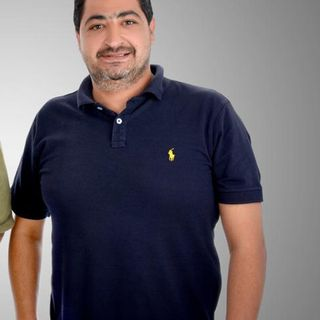
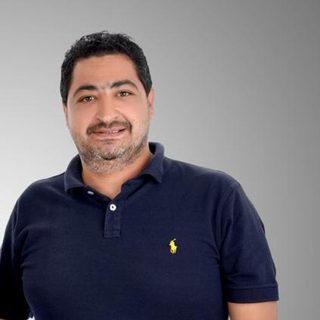
Bigger rounded-square team photos, fix mobile menu, re-crop headshots
- Team photos: large rounded-square (bleeding to card edges) instead of
  small circular avatars
- Re-crop Gehad Fawzy and Mick Jewell from the shared group photo with
  correct centering (previous crop had a sliver of the other person's
  sleeve bleeding in, and Mick was off-center)
- Mobile nav: full-screen opaque overlay (was a partial-height panel
  whose top edge could gap against the semi-transparent blurred header,
  letting page content show through); toggle button now sits above the
  overlay and morphs to a close (X) icon; body scroll locks while open

diff --git a/about.html b/about.html
@@ -50,14 +50,14 @@
         <h2>Our Team</h2>
       </div>
       <div class="card-grid">
-        <div class="card reveal"><img class="team-photo" src="images/team-gehad-fawzy.jpg" alt="Gehad Fawzy" loading="lazy" width="96" height="96"><h3>Gehad Fawzy</h3><p>CEO</p></div>
-        <div class="card reveal"><img class="team-photo" src="images/team-mick-jewell.jpg" alt="Mick Jewell" loading="lazy" width="96" height="96"><h3>Mick Jewell</h3><p>COO</p></div>
-        <div class="card reveal"><img class="team-photo" src="images/team-nermin-salah.jpg" alt="Nermin Salah" loading="lazy" width="96" height="96"><h3>Nermin Salah</h3><p>EA</p></div>
-        <div class="card reveal"><img class="team-photo" src="images/team-wael-ahmed-seleem.jpg" alt="Wael Ahmed Seleem" loading="lazy" width="96" height="96"><h3>Wael Ahmed Seleem</h3><p>Sales Executive</p></div>
-        <div class="card reveal"><img class="team-photo" src="images/team-mohamed-mamdoh.jpg" alt="Mohamed Mamdoh" loading="lazy" width="96" height="96"><h3>Mohamed Mamdoh</h3><p>Sales Executive</p></div>
-        <div class="card reveal"><img class="team-photo" src="images/team-amr-saeed-fathy.jpg" alt="Amr Saeed Fathy" loading="lazy" width="96" height="96"><h3>Amr Saeed Fathy</h3><p>Sales Support</p></div>
-        <div class="card reveal"><img class="team-photo" src="images/team-nick-gallier.jpg" alt="Nick Gallier" loading="lazy" width="96" height="96"><h3>Nick Gallier</h3><p>Visual Design</p></div>
-        <div class="card reveal"><img class="team-photo" src="images/team-vadym-kmatvieiev.jpg" alt="Vadym Kmatvieiev" loading="lazy" width="96" height="96"><h3>Vadym Kmatvieiev</h3><p>Visual Design</p></div>
+        <div class="card reveal"><img class="team-photo" src="images/team-gehad-fawzy.jpg" alt="Gehad Fawzy" loading="lazy" width="320" height="320"><h3>Gehad Fawzy</h3><p>CEO</p></div>
+        <div class="card reveal"><img class="team-photo" src="images/team-mick-jewell.jpg" alt="Mick Jewell" loading="lazy" width="320" height="320"><h3>Mick Jewell</h3><p>COO</p></div>
+        <div class="card reveal"><img class="team-photo" src="images/team-nermin-salah.jpg" alt="Nermin Salah" loading="lazy" width="320" height="320"><h3>Nermin Salah</h3><p>EA</p></div>
+        <div class="card reveal"><img class="team-photo" src="images/team-wael-ahmed-seleem.jpg" alt="Wael Ahmed Seleem" loading="lazy" width="320" height="320"><h3>Wael Ahmed Seleem</h3><p>Sales Executive</p></div>
+        <div class="card reveal"><img class="team-photo" src="images/team-mohamed-mamdoh.jpg" alt="Mohamed Mamdoh" loading="lazy" width="320" height="320"><h3>Mohamed Mamdoh</h3><p>Sales Executive</p></div>
+        <div class="card reveal"><img class="team-photo" src="images/team-amr-saeed-fathy.jpg" alt="Amr Saeed Fathy" loading="lazy" width="320" height="320"><h3>Amr Saeed Fathy</h3><p>Sales Support</p></div>
+        <div class="card reveal"><img class="team-photo" src="images/team-nick-gallier.jpg" alt="Nick Gallier" loading="lazy" width="320" height="320"><h3>Nick Gallier</h3><p>Visual Design</p></div>
+        <div class="card reveal"><img class="team-photo" src="images/team-vadym-kmatvieiev.jpg" alt="Vadym Kmatvieiev" loading="lazy" width="320" height="320"><h3>Vadym Kmatvieiev</h3><p>Visual Design</p></div>
       </div>
     </div>
   </section>

diff --git a/css/styles.css b/css/styles.css
@@ -152,13 +152,15 @@ button:focus-visible,
 }
 
 @media (max-width: 768px) {
-  .nav-toggle { display: inline-flex; align-items: center; justify-content: center; }
+  .nav-toggle { display: inline-flex; align-items: center; justify-content: center; position: relative; z-index: 101; }
   .nav-links {
     position: fixed;
-    inset: 72px 0 0 0;
+    inset: 0;
+    z-index: 100;
     flex-direction: column;
+    justify-content: center;
     background: var(--ink);
-    padding: var(--space-4) var(--space-3);
+    padding: var(--space-6) var(--space-3);
     transform: translateY(-8px);
     opacity: 0;
     pointer-events: none;
@@ -170,6 +172,7 @@ button:focus-visible,
     pointer-events: auto;
   }
   .nav-links a { font-size: 1.1rem; }
+  body.nav-open { overflow: hidden; }
 }
 
 /* Buttons */
@@ -273,15 +276,17 @@ button:focus-visible,
 }
 .card:hover .card-media img { transform: scale(1.06); }
 
-/* Team headshots */
+/* Team headshots — large rounded-square photo bleeding to the card's edges */
 .team-photo {
-  width: 96px;
-  height: 96px;
-  border-radius: 50%;
+  width: calc(100% + 2 * var(--space-3));
+  aspect-ratio: 1 / 1;
   object-fit: cover;
-  border: 2px solid var(--gold);
-  margin-bottom: var(--space-2);
+  border-radius: 14px;
+  margin: calc(-1 * var(--space-3)) calc(-1 * var(--space-3)) var(--space-3);
+  display: block;
+  transition: transform 400ms ease;
 }
+.card:hover .team-photo { transform: scale(1.04); }
 
 /* Filter chips */
 .filter-bar {

diff --git a/js/main.js b/js/main.js
@@ -15,16 +15,21 @@ document.addEventListener('DOMContentLoaded', () => {
   // Mobile nav toggle
   const navToggle = document.querySelector('.nav-toggle');
   const navLinks = document.querySelector('.nav-links');
+  const hamburgerIcon = '<path d="M2 5h16M2 10h16M2 15h16" stroke="currentColor" stroke-width="2"/>';
+  const closeIcon = '<path d="M4 4l12 12M16 4L4 16" stroke="currentColor" stroke-width="2"/>';
+  const setNavOpen = (isOpen) => {
+    navLinks.classList.toggle('is-open', isOpen);
+    navToggle.setAttribute('aria-expanded', String(isOpen));
+    document.body.classList.toggle('nav-open', isOpen);
+    const svg = navToggle.querySelector('svg');
+    if (svg) svg.innerHTML = isOpen ? closeIcon : hamburgerIcon;
+  };
   if (navToggle && navLinks) {
     navToggle.addEventListener('click', () => {
-      const isOpen = navLinks.classList.toggle('is-open');
-      navToggle.setAttribute('aria-expanded', String(isOpen));
+      setNavOpen(!navLinks.classList.contains('is-open'));
     });
     navLinks.querySelectorAll('a').forEach((link) => {
-      link.addEventListener('click', () => {
-        navLinks.classList.remove('is-open');
-        navToggle.setAttribute('aria-expanded', 'false');
-      });
+      link.addEventListener('click', () => setNavOpen(false));
     });
   }
 
